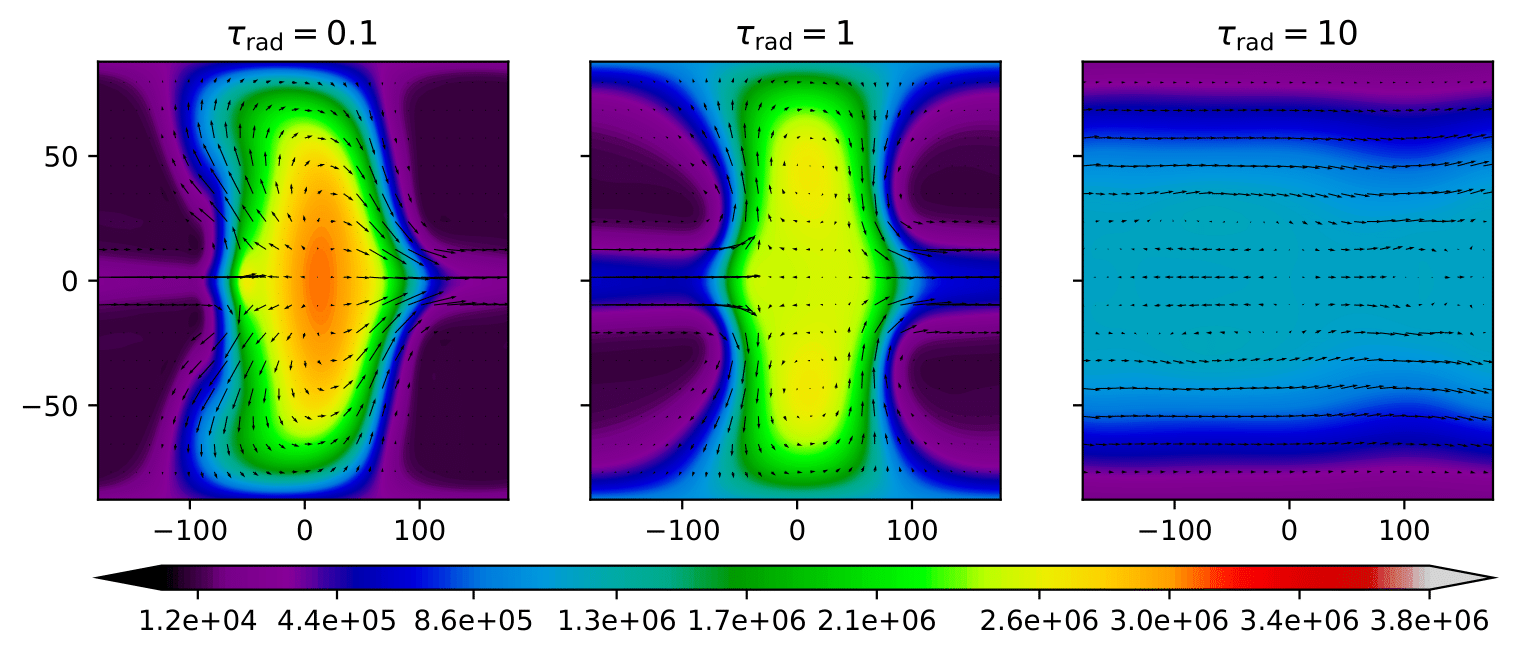
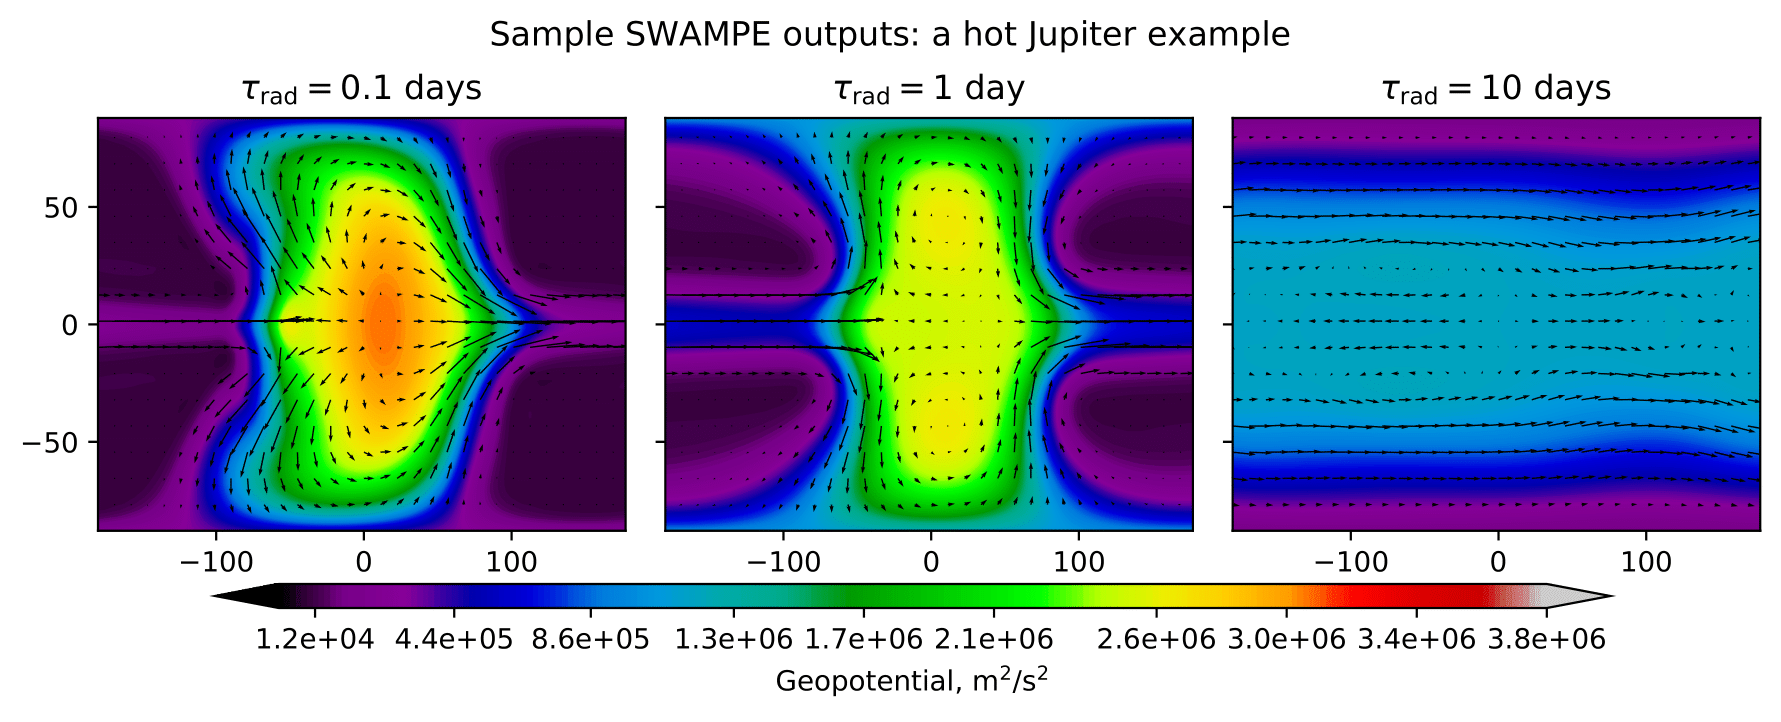
Update timescale figure

diff --git a/paper/paper.md b/paper/paper.md
@@ -25,7 +25,7 @@ bibliography: paper.bib
 # Summary
 
 In order to answer questions about potential habitability of exoplanets, it is important to develop a robust understanding of a variety of dynamic
-processes that can take place in exoplanetary atmospheres. While many exoplanets are readily characterized with current facilities like Hubble and the recently-launched James Webb Space Telescope, exoplanet scientists work with indirect and limited observations of the planets that they study. In order to form hypotheses about their climate, weather, and atmospheric composition, astronomers need robust models that demonstrate how atmospheres act under different conditions. One-dimensional energy-balance models can capture complex mechanisms such as cloud formation and can rapidly explore the parameter ranges, but they fail to account for variations with longitude. In contrast, three-dimensional models capture the variation in latitude, longitude, and altitude, but they are computationally expensive, sometimes taking months to explore the parameter regimes. Their complexity can also obscure the mechanisms that govern atmospheric phenomena. This leaves a natural gap for two-dimensional models, which can capture the spatial variability as well as rapidly explore the parameter space and study the dynamical mechanisms.
+processes that can take place in exoplanetary atmospheres. While many exoplanets are readily characterized with current facilities like Hubble and James Webb Space Telescope, exoplanet scientists work with indirect and limited observations of the planets that they study. In order to form hypotheses about their climate, weather, and atmospheric composition, astronomers need robust models that demonstrate how atmospheres act under different conditions. One-dimensional energy-balance models can capture complex mechanisms such as cloud formation and can rapidly explore the parameter ranges, but they fail to account for variations with longitude. In contrast, three-dimensional models capture the variation in latitude, longitude, and altitude, but they are computationally expensive, sometimes taking months to explore the parameter regimes. Their complexity can also obscure the mechanisms that govern atmospheric phenomena. This leaves a natural gap for two-dimensional models, which can capture the spatial variability as well as rapidly explore the parameter space and study the dynamical mechanisms.
 
 `SWAMPE` is a Python package for modeling the dynamics of exoplanetary atmospheres. `SWAMPE` is an intermediate-complexity, two-dimensional shallow-water general circulation model. Benchmarked for synchronously rotating hot Jupiters and sub-Neptunes, 
 the code is modular and could be easily modified to model dissimilar space objects, from Brown Dwarfs to terrestrial, potentially habitable exoplanets. 